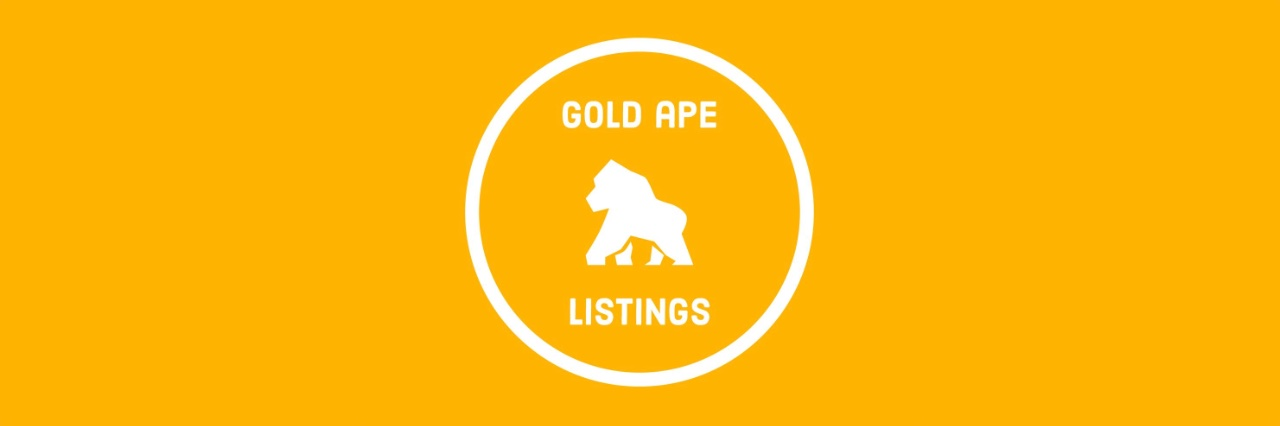
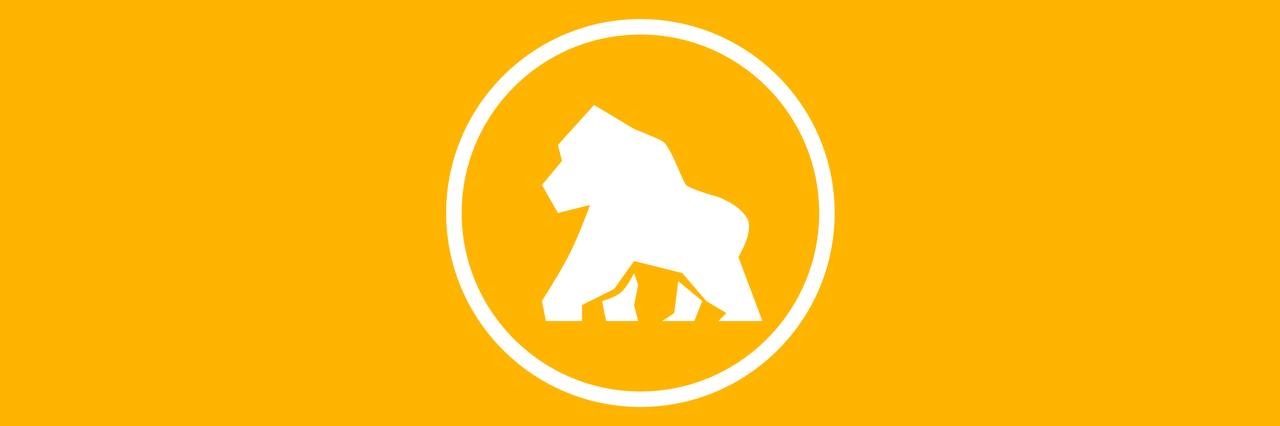
Changed image and description for goldape

Changed region(s): [[0.3438, 0.0305, 0.6562, 0.9765]]

diff --git a/tgbf/plugins/goldape/goldape.py b/tgbf/plugins/goldape/goldape.py
@@ -34,51 +34,46 @@ class Goldape(TGBFPlugin):
 
     @TGBFPlugin.send_typing
     def goldape_callback(self, update: Update, context: CallbackContext):
-        if len(context.args) == 0:
-            cal_msg = f"{emo.HOURGLASS} Checking subscription..."
-            gt_path = os.path.join(self.get_res_path(), "goldape.jpg")
-            message = update.message.reply_photo(open(gt_path, "rb"), caption=cal_msg)
+        cal_msg = f"{emo.HOURGLASS} Checking subscription..."
+        gt_path = os.path.join(self.get_res_path(), "goldape.jpg")
+        message = update.message.reply_photo(open(gt_path, "rb"), caption=cal_msg)
 
-            usr_id = update.effective_user.id
-            wallet = self.get_wallet(usr_id)
-            lamden = Connect(wallet)
+        usr_id = update.effective_user.id
+        wallet = self.get_wallet(usr_id)
+        lamden = Connect(wallet)
 
-            deposit = lamden.get_contract_variable(
-                self.config.get("contract"),
-                "data",
-                wallet.verifying_key
-            )
+        deposit = lamden.get_contract_variable(
+            self.config.get("contract"),
+            "data",
+            wallet.verifying_key
+        )
 
-            deposit = deposit["value"] if "value" in deposit else 0
-            deposit = float(str(deposit)) if deposit else float("0")
+        deposit = deposit["value"] if "value" in deposit else 0
+        deposit = float(str(deposit)) if deposit else float("0")
 
-            if deposit > 0:
-                message.edit_caption(
-                    f"You are currently subscribed to <b>GOLD Ape</b>. If you "
-                    f"unsubscribe, you will be removed from the listing channel and get "
-                    f"part of your GOLD deposit back. If you are subscribed for...\n\n"
-                    f"<code>"
-                    f"... less than  30 days = 30% back\n"
-                    f"... less than  90 days = 50% back\n"
-                    f"... less than 120 days = 70% back\n"
-                    f"... more than 120 days = 80% back\n"
-                    f"</code>",
-                    parse_mode=ParseMode.HTML,
-                    reply_markup=self.get_unsubscribe_button(update.effective_user.id))
-            else:
-                message.edit_caption(
-                    f"Stake <code>{int(self.get_amount_gold()):,}</code> {self.TOKEN_SYMBOL} "
-                    f"to subscribe to <b>GOLD Ape</b>. Once you are subscribed "
-                    f"you will shortly be added to a private group in which newly "
-                    f"created token markets on Rocketswap are being listed as soon as "
-                    f"they are available.",
-                    parse_mode=ParseMode.HTML,
-                    reply_markup=self.get_subscribe_button(update.effective_user.id))
+        if deposit > 0:
+            message.edit_caption(
+                f"You are currently subscribed to <b>GOLD Ape</b>. If you "
+                f"unsubscribe, you will be removed from the listing channel and get "
+                f"part of your GOLD deposit back. If you are subscribed for...\n\n"
+                f"<code>"
+                f"... less than  30 days = 30% back\n"
+                f"... less than  90 days = 50% back\n"
+                f"... less than 120 days = 70% back\n"
+                f"... more than 120 days = 80% back\n"
+                f"</code>",
+                parse_mode=ParseMode.HTML,
+                reply_markup=self.get_unsubscribe_button(update.effective_user.id))
         else:
-            update.message.reply_text(
-                self.get_usage(),
-                parse_mode=ParseMode.MARKDOWN)
-            return
+            message.edit_caption(
+                f"<b>GOLD APE</b> is a subscription service by GOLD. Stake "
+                f"<code>{int(self.get_amount_gold()):,}</code> {self.TOKEN_SYMBOL} to subscribe.\n\n"
+                f"Subscribers can use the /buy and /sell functions which allow you to trade on "
+                f"Rocketswap through Telegram. They also have access to a private channel that "
+                f"provides notifications when new tokens are listed or have a large price change "
+                f"on Rocketswap.",
+                parse_mode=ParseMode.HTML,
+                reply_markup=self.get_subscribe_button(update.effective_user.id))
 
     def check_tokens(self, context: CallbackContext):
         logging.info("Checking for new market on Rocketswap...")
